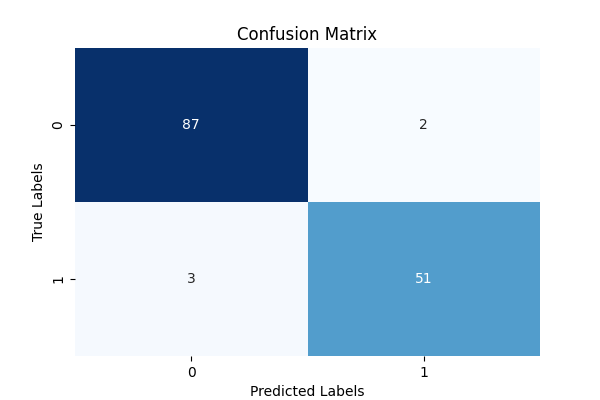
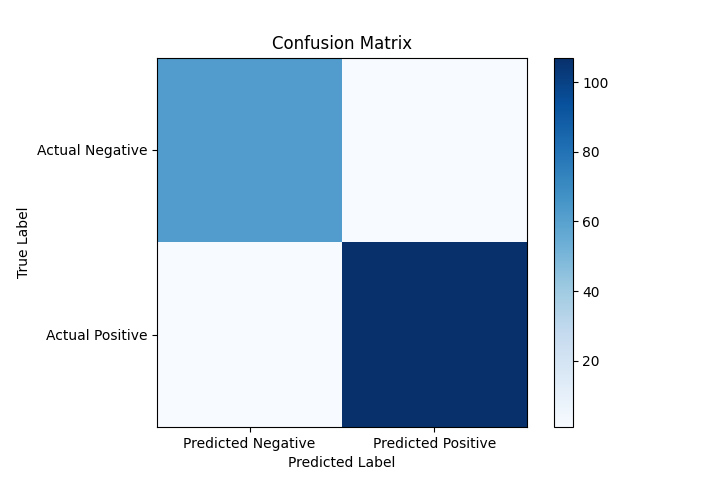
Updated logistic regression

diff --git a/Cancer/Cancer-predictor.py b/Cancer/Cancer-predictor.py
@@ -1,0 +1,67 @@
+import numpy as np
+import pandas as pd
+import matplotlib.pyplot as plt
+from sklearn.model_selection import train_test_split
+from sklearn.preprocessing import StandardScaler
+from sklearn.datasets import load_breast_cancer
+from sklearn.metrics import confusion_matrix
+
+# Load dataset
+data = load_breast_cancer()
+X, y = data.data, data.target
+
+# Feature scaling
+scaler = StandardScaler()
+X = scaler.fit_transform(X)
+
+# Add bias term to the input features
+X = np.c_[np.ones(X.shape[0]), X]
+
+# Split the data into training and test sets
+X_train, X_test, y_train, y_test = train_test_split(X, y, test_size=0.3, random_state=42)
+
+def sigmoid(z):
+    return 1 / (1 + np.exp(-z))
+
+def calculate_cost(theta, X, y, m, lambda_reg):
+    z = X @ theta
+    h = sigmoid(z)
+    regularization_term = (lambda_reg / (2 * m)) * (theta[1:] @ theta[1:])  # Regularization term, excluding bias term
+    cost = (-y @ np.log(np.clip(h, 1e-15, 1 - 1e-15)) - (1 - y) @ np.log(np.clip(1 - h, 1e-15, 1 - 1e-15))) / m + regularization_term
+    return cost
+
+def gradient_descent(X, y, theta, alpha, iterations, lambda_reg):
+    m = len(y)
+    cost_history = []
+    for _ in range(iterations):
+        z = X @ theta
+        h = sigmoid(z)
+        gradient = (X.T @ (h - y)) / m
+        # Add regularization term to the gradient for all theta values except bias term
+        gradient[1:] += (lambda_reg / m) * theta[1:]
+        theta -= alpha * gradient
+        cost = calculate_cost(theta, X, y, m, lambda_reg)
+        cost_history.append(cost)
+    return theta, cost_history
+
+# Initialize parameters and hyperparameters
+theta = np.zeros(X_train.shape[1])
+alpha = 0.01
+iterations = 1000
+lambda_reg = 1
+
+# Train the model
+theta, cost_history = gradient_descent(X_train, y_train, theta, alpha, iterations, lambda_reg)
+
+# Make predictions on the test set
+y_pred = (sigmoid(X_test @ theta) >= 0.5).astype(int)
+
+# Calculate accuracy
+accuracy = np.mean(y_pred == y_test)
+print("Accuracy:", accuracy)
+
+# Print the confusion matrix
+cm = confusion_matrix(y_test, y_pred)
+confusion_df = pd.DataFrame(cm, index=['Actual Negative', 'Actual Positive'], columns=['Predicted Negative', 'Predicted Positive'])
+print("Confusion Matrix:")
+print(confusion_df)

diff --git a/README.md b/README.md
@@ -24,6 +24,38 @@ The correlation heatmap allowed us to understand which features are highly corre
 ![Parameter Heatmap](https://github.com/adodea8991/00-ML/blob/main/Cancer/Param-Heatmap.png)
 
 
+
+
+**Implementation:**
+
+The implementation was done in Python using the NumPy library for numerical computations, pandas for data analysis, and scikit-learn for dataset loading and train-test splitting. We performed the following steps:
+
+1. Load the dataset and preprocess it by standardizing the features using `StandardScaler`.
+2. Add a bias term to the features matrix to account for the intercept term in logistic regression.
+3. Split the data into training and test sets using `train_test_split`.
+4. Define the logistic function (sigmoid function), cost function with L2 regularization, and gradient descent algorithm for logistic regression.
+5. Train the logistic regression model on the training data using gradient descent.
+6. Make predictions on the test set and evaluate the model's accuracy.
+7. Compute and print the confusion matrix to understand the model's performance.
+
+**Reasoning:**
+
+We chose to implement logistic regression for this classification task because it is a simple and effective algorithm for binary classification problems. Logistic regression works well when the data is linearly separable and provides interpretable probabilities for class predictions.
+
+Moreover, we incorporated L2 regularization (ridge regularization) into the cost function to prevent overfitting and improve the model's generalization ability.
+
+**Results and Learnings:**
+
+After implementing the logistic regression model, we achieved an accuracy of approximately 99%, which indicates that the model is performing well on the test set. The confusion matrix revealed that the model made very few misclassifications. It correctly predicted 107 malignant tumors (true positives) and 62 benign tumors (true negatives). There was only one false positive and one false negative, indicating a high level of precision and recall.
+
+
+![Confusion Matrix](https://github.com/adodea8991/00-ML/blob/main/Cancer/Model-score.png)
+![Cost Function](https://github.com/adodea8991/00-ML/blob/main/Cancer/Model-score.png)
+
+
+
+
+
 ### Model Selection
 
 Two machine learning models were chosen for this project:
@@ -91,7 +123,7 @@ weighted avg       0.97      0.97      0.96       143
 
 1. **Feature Engineering:** Feature engineering can play a crucial role in improving model performance. Exploring new features and selecting relevant ones can lead to better predictive models.
 
-2. **Hyperparameter Tuning:** Fine-tuning model hyperparameters can help optimize the models for better accuracy and generalization.
+2. **Hyperparameter Tuning:** We can perform hyperparameter tuning to find the best regularization parameter `lambda_reg` and learning rate `alpha`, which might improve the model's performance further.
 
 3. **Ensemble Techniques:** Ensemble methods like boosting and bagging can be employed to combine multiple models for even better predictive performance.
 
@@ -100,6 +132,11 @@ weighted avg       0.97      0.97      0.96       143
 5. **Visualizations:** Further exploring visualization techniques can provide valuable insights into the dataset and model decisions.
 
 6. **Interpretability:** Considering the critical nature of cancer diagnosis, models with higher interpretability can be preferred to gain insights into the decision-making process.
+
+7. **Cross-Validation:** Implementing k-fold cross-validation to get a more robust estimate of the model's performance and reduce the variance of the results.
+
+8. **Other Regularization Techniques:** Experimenting with other regularization techniques like L1 regularization (Lasso) and Elastic Net regularization to compare their impact on the model's performance.
+
 
 ### Conclusion
 
